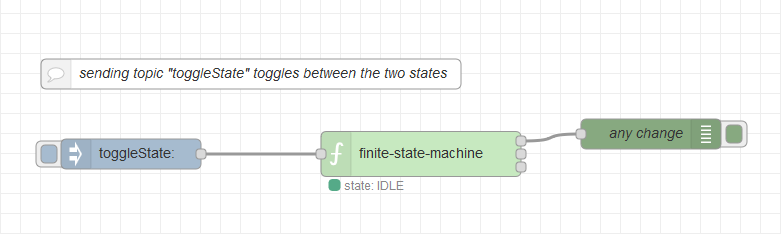
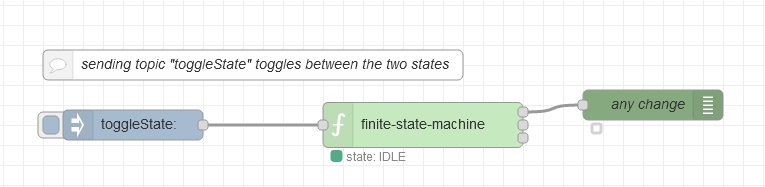
Documentation rework
Documentation was extended and flow sources were added for a better UX.

Changed region(s): [[0.0301, 0.4545, 0.9621, 0.8824], [0.0301, 0.2406, 0.6013, 0.4545]]

diff --git a/README.md b/README.md
@@ -12,13 +12,6 @@ code.node {
 }
 </style>
 
-# xxx ToDos:
-- Flows einfügen
-- Pull Request
-
-'------------< schnipp >-------------------'
-
-
 
 # Node Red State Machine
 
@@ -40,7 +33,7 @@ A finite state machine implementation for node red. Displays also a graphical re
 ## Usage
 
 ### Input object elements
-The inputs of the <code class="node">finite state machine</code> is defined by a json object:
+The inputs of the <code class="node">finite state machine</code> is defined by a JSON object:
 
 - *state* holds the initial state. It shall contain a *status* field and may contain a *data* object.
 - *transitions* holds the possible states as keys (shown as upper case strings). As values it contains one or more key/value pairs, consisting of the transition string (lower case strings) and the resulting state.
@@ -115,7 +108,7 @@ There is only one `msg.topic` ("toggleState") which toggles between the two stat
 ![flow-simple](images/flow-simple.png)
 
 ```json
-[{"id":"606ff60d.502dd","type":"tab","label":"Flow 4","disabled":false,"info":""},{"id":"a68cfab2.bbc9d8","type":"finite-state-machine","z":"606ff60d.502dd","name":"","fsmDefinition":"{\"state\":{\"status\":\"IDLE\"},\"transitions\":{\"IDLE\":{\"toggleState\":\"RUNNING\"},\"RUNNING\":{\"toggleState\":\"IDLE\"}}}","sendInitialState":false,"showTransitionErrors":true,"x":580,"y":360,"wires":[["debb4bee.65426"],[],[]]},{"id":"debb4bee.65426","type":"debug","z":"606ff60d.502dd","name":"any change","active":true,"tosidebar":true,"console":false,"tostatus":false,"complete":"payload","targetType":"msg","x":810,"y":340,"wires":[]},{"id":"1b3e4469.9e18bc","type":"inject","z":"606ff60d.502dd","name":"","topic":"toggleState","payload":"","payloadType":"str","repeat":"","crontab":"","once":false,"onceDelay":0.1,"x":290,"y":360,"wires":[["a68cfab2.bbc9d8"]]},{"id":"e6111ee1.cf3e6","type":"comment","z":"606ff60d.502dd","name":"sending topic \"toggleState\" toggles between the two states","info":"","x":410,"y":280,"wires":[]}]
+[{"id":"606ff60d.502dd","type":"tab","label":"Minimal state machine","disabled":false,"info":""},{"id":"a68cfab2.bbc9d8","type":"finite-state-machine","z":"606ff60d.502dd","name":"","fsmDefinition":"{\"state\":{\"status\":\"IDLE\"},\"transitions\":{\"IDLE\":{\"toggleState\":\"RUNNING\"},\"RUNNING\":{\"toggleState\":\"IDLE\"}}}","sendInitialState":false,"showTransitionErrors":true,"x":480,"y":240,"wires":[["debb4bee.65426"],[],[]]},{"id":"debb4bee.65426","type":"debug","z":"606ff60d.502dd","name":"any change","active":true,"tosidebar":false,"console":false,"tostatus":true,"complete":"payload","targetType":"msg","x":710,"y":220,"wires":[]},{"id":"1b3e4469.9e18bc","type":"inject","z":"606ff60d.502dd","name":"","topic":"toggleState","payload":"","payloadType":"str","repeat":"","crontab":"","once":false,"onceDelay":0.1,"x":190,"y":240,"wires":[["a68cfab2.bbc9d8"]]},{"id":"e6111ee1.cf3e6","type":"comment","z":"606ff60d.502dd","name":"sending topic \"toggleState\" toggles between the two states","info":"","x":310,"y":180,"wires":[]}]
 ```
 
 
@@ -151,7 +144,7 @@ The output *"data changed"* can only be activated in state "RUNNING" via the low
 ![flow](images/flow.png)
 
 ```json
-[{"id":...}]
+[{"id":"378a3460.e755fc","type":"tab","label":"Finite state machine: Test flow","disabled":false,"info":""},{"id":"67adcdd8.8b41d4","type":"finite-state-machine","z":"378a3460.e755fc","name":"","fsmDefinition":"{\"state\":{\"status\":\"IDLE\",\"data\":{\"x\":5}},\"transitions\":{\"IDLE\":{\"run\":\"RUNNING\"},\"RUNNING\":{\"stop\":\"IDLE\",\"set\":\"RUNNING\"}}}","sendInitialState":false,"showTransitionErrors":true,"x":600,"y":260,"wires":[["1a35a82.2e59ad8"],["324d3672.55ac32"],["b85f26d6.b8f418"]]},{"id":"1a35a82.2e59ad8","type":"debug","z":"378a3460.e755fc","name":"any change","active":true,"tosidebar":true,"console":false,"tostatus":false,"complete":"payload","targetType":"msg","x":830,"y":220,"wires":[]},{"id":"c882ea0f.8236e","type":"inject","z":"378a3460.e755fc","name":"","topic":"reset","payload":"","payloadType":"str","repeat":"","crontab":"","once":true,"onceDelay":0.1,"x":210,"y":120,"wires":[["67adcdd8.8b41d4"]]},{"id":"4117af3.0c6505","type":"comment","z":"378a3460.e755fc","name":"sending topic \"reset\" will set the state machine to its initial state","info":"","x":380,"y":80,"wires":[]},{"id":"324d3672.55ac32","type":"debug","z":"378a3460.e755fc","name":"status change","active":true,"tosidebar":true,"console":false,"tostatus":false,"complete":"payload","targetType":"msg","x":840,"y":260,"wires":[]},{"id":"b85f26d6.b8f418","type":"debug","z":"378a3460.e755fc","name":"\"data\" change","active":true,"tosidebar":true,"console":false,"tostatus":false,"complete":"payload","targetType":"msg","x":840,"y":300,"wires":[]},{"id":"976ee3eb.97e4f","type":"inject","z":"378a3460.e755fc","name":"","topic":"run","payload":"","payloadType":"str","repeat":"","crontab":"","once":false,"onceDelay":0.1,"x":210,"y":240,"wires":[["67adcdd8.8b41d4"]]},{"id":"7ae46f5b.127bc8","type":"inject","z":"378a3460.e755fc","name":"","topic":"set","payload":"{\"x\" : 2, \"name\" : \"peter\"}","payloadType":"json","repeat":"","crontab":"","once":false,"onceDelay":0.1,"x":280,"y":400,"wires":[["67adcdd8.8b41d4"]]},{"id":"4fa32a8f.24719c","type":"inject","z":"378a3460.e755fc","name":"","topic":"set","payload":"{\"y\" : 3}","payloadType":"json","repeat":"","crontab":"","once":false,"onceDelay":0.1,"x":230,"y":440,"wires":[["67adcdd8.8b41d4"]]},{"id":"1622d35c.3a4f1d","type":"comment","z":"378a3460.e755fc","name":"any other topic will trigger a transition","info":"","x":290,"y":200,"wires":[]},{"id":"1196d485.ba7693","type":"inject","z":"378a3460.e755fc","name":"","topic":"stop","payload":"","payloadType":"str","repeat":"","crontab":"","once":false,"onceDelay":0.1,"x":210,"y":280,"wires":[["67adcdd8.8b41d4"]]},{"id":"1e02858b.9b841a","type":"comment","z":"378a3460.e755fc","name":"by sending a JSON object as payload you can add data to the state","info":"","x":380,"y":360,"wires":[]}]
 ```
 
 
@@ -181,7 +174,7 @@ This example gives a self-stopping behaviour after a defined amount of time: Tra
 ![](images/flow-feedback.png)
 
 ```json
-[{"id":...}]
+[{"id":"e7cbb08b.ea53","type":"tab","label":"State machine with feedback","disabled":false,"info":""},{"id":"b4a9f9f7.51a2a8","type":"finite-state-machine","z":"e7cbb08b.ea53","name":"","fsmDefinition":"{\"state\":{\"status\":\"IDLE\",\"data\":{\"x\":5}},\"transitions\":{\"IDLE\":{\"run\":\"RUNNING\"},\"RUNNING\":{\"stop\":\"IDLE\",\"set\":\"RUNNING\"}}}","sendInitialState":false,"showTransitionErrors":true,"x":480,"y":160,"wires":[["d6bb83dc.a1bad8"],[],[]]},{"id":"8c71a3b6.8311d","type":"inject","z":"e7cbb08b.ea53","name":"","topic":"run","payload":"","payloadType":"str","repeat":"","crontab":"","once":false,"onceDelay":0.1,"x":270,"y":160,"wires":[["b4a9f9f7.51a2a8"]]},{"id":"d6bb83dc.a1bad8","type":"switch","z":"e7cbb08b.ea53","name":"onRUNNING","property":"payload.status","propertyType":"msg","rules":[{"t":"eq","v":"RUNNING","vt":"str"}],"checkall":"true","repair":false,"outputs":1,"x":690,"y":140,"wires":[["d3e923f3.8d2478"]]},{"id":"d3e923f3.8d2478","type":"delay","z":"e7cbb08b.ea53","name":"delay 5s","pauseType":"delay","timeout":"5","timeoutUnits":"seconds","rate":"1","nbRateUnits":"1","rateUnits":"second","randomFirst":"1","randomLast":"5","randomUnits":"seconds","drop":false,"x":760,"y":300,"wires":[["d1f104bf.095cf8"]]},{"id":"d1f104bf.095cf8","type":"change","z":"e7cbb08b.ea53","name":"set msg.topic to stop","rules":[{"t":"set","p":"topic","pt":"msg","to":"stop","tot":"str"}],"action":"","property":"","from":"","to":"","reg":false,"x":220,"y":200,"wires":[["b4a9f9f7.51a2a8"]]},{"id":"d90fb97c.0299d8","type":"comment","z":"e7cbb08b.ea53","name":"sending topic \"run\" will trigger the machine which is stopped 5 seconds later","info":"","x":390,"y":100,"wires":[]}]
 ```
 
 
